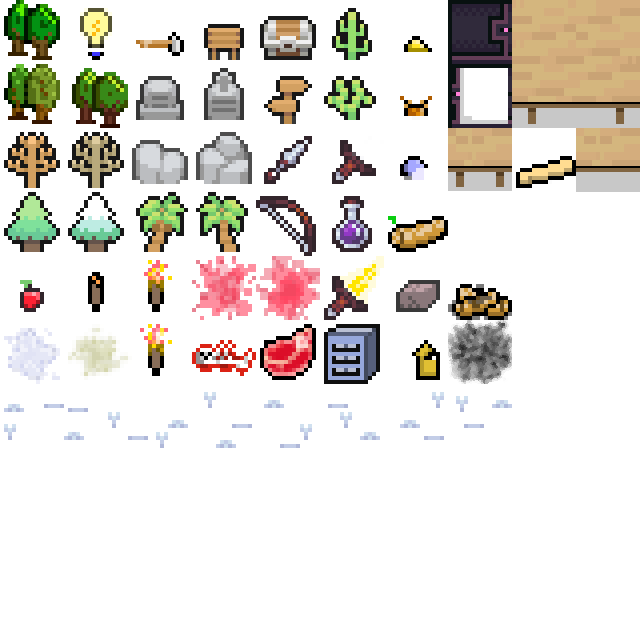
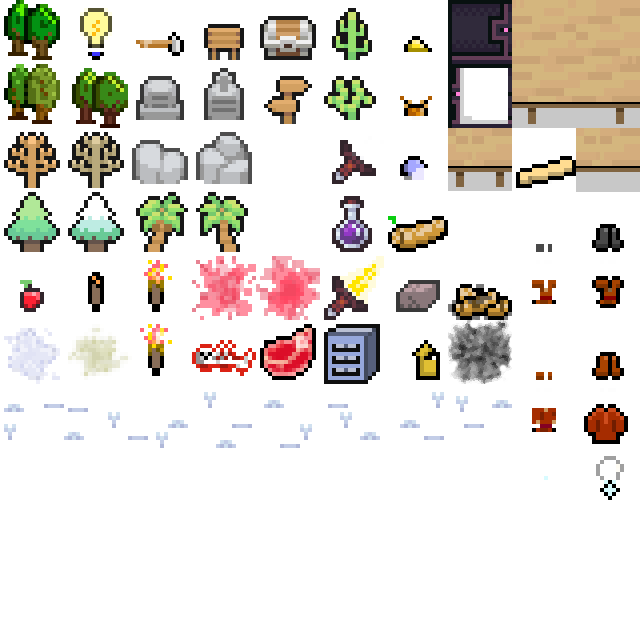
more gear

diff --git a/src/main/kotlin/things/Clothing.kt b/src/main/kotlin/things/Clothing.kt
@@ -22,7 +22,7 @@ sealed class Clothing : Gear() {
 @Serializable
 class HardHat : Clothing() {
     companion object {
-        val glyphTransform = GlyphTransform(Glyph.HARD_HAT, 0.0f, -0.6f, false)
+        val glyphTransform = GlyphTransform(Glyph.HARD_HAT, 0.0f, -0.6f)
     }
     override fun glyphTransform() = glyphTransform
     override fun glyph() = Glyph.HARD_HAT
@@ -37,9 +37,9 @@ class HardHat : Clothing() {
 }
 
 @Serializable
-class HornetHelmet : Clothing() {
+class HornedHelmet : Clothing() {
     companion object {
-        val glyphTransform = GlyphTransform(Glyph.HORNED_HAT, 0.0f, -0.6f, false)
+        val glyphTransform = GlyphTransform(Glyph.HORNED_HAT, 0.0f, -0.6f)
     }
     override fun glyphTransform() = glyphTransform
     override fun glyph() = Glyph.HORNED_HAT
@@ -57,7 +57,7 @@ class HornetHelmet : Clothing() {
 @Serializable
 class RiotHelmet : Clothing() {
     companion object {
-        val glyphTransform = GlyphTransform(Glyph.HELMET, 0.0f, -0.5f, false)
+        val glyphTransform = GlyphTransform(Glyph.HELMET, 0.0f, -0.5f)
     }
     override fun glyphTransform() = glyphTransform
     override fun glyph() = Glyph.HELMET
@@ -66,4 +66,75 @@ class RiotHelmet : Clothing() {
     override val slot = Slot.HEAD
     override fun weight() = 0.7f
     override fun armor() = 4f
+}
+
+@Serializable
+class MokBoots : Clothing() {
+    companion object {
+        val glyphTransform = GlyphTransform(Glyph.GRAY_BOOTS_WORN)
+    }
+    override fun glyphTransform() = glyphTransform
+    override fun glyph() = Glyph.GRAY_BOOTS
+    override fun name() = "mok boots"
+    override fun description() = "Heavy stiff boots of tough leather pressed in layers."
+    override val slot = Slot.FEET
+    override fun weight() = 2f
+    override fun armor() = 2f
+}
+
+@Serializable
+class TravelBoots : Clothing() {
+    companion object {
+        val glyphTransform = GlyphTransform(Glyph.BROWN_BOOTS_WORN)
+    }
+    override fun glyphTransform() = glyphTransform
+    override fun glyph() = Glyph.BROWN_BOOTS
+    override fun name() = "travel boots"
+    override fun description() = "Fur-lined boots, ideal for long journeys."
+    override val slot = Slot.FEET
+    override fun weight() = 1.5f
+    override fun armor() = 1f
+}
+
+@Serializable
+class FurTunic : Clothing() {
+    companion object {
+        val glyphTransform = GlyphTransform(Glyph.RED_TUNIC_WORN)
+    }
+    override fun glyphTransform() = glyphTransform
+    override fun glyph() = Glyph.RED_TUNIC
+    override fun name() = "fur tunic"
+    override fun description() = "Despite the chic lack of arms, the thick fur seems quite cozy."
+    override val slot = Slot.TORSO
+    override fun weight() = 1f
+    override fun armor() = 1f
+}
+
+@Serializable
+class FurJacket : Clothing() {
+    companion object {
+        val glyphTransform = GlyphTransform(Glyph.RED_JACKET_WORN)
+    }
+    override fun glyphTransform() = glyphTransform
+    override fun glyph() = Glyph.RED_JACKET
+    override fun name() = "fur jacket"
+    override fun description() = "The innovation of arms makes this a sort of super-tunic, the ultimate in barbarian comfort."
+    override val slot = Slot.TORSO
+    override fun weight() = 2.5f
+    override fun armor() = 2f
+}
+
+@Serializable
+class SabretoothCharm : Clothing() {
+    companion object {
+        val glyphTransform = GlyphTransform(Glyph.NECK_CHARM_WORN)
+    }
+    override fun glyphTransform() = glyphTransform
+    override fun glyph() = Glyph.NECK_CHARM
+    override fun name() = "sabretooth charm"
+    override fun description() = "A trophy from your first kill reminds you of your inner strength."
+    override val slot = Slot.NECK
+    override fun weight() = 0.1f
+    override fun armor() = 0f
+    override fun statEffects() = mapOf(Stat.Tag.STR to 1f)
 }

diff --git a/src/main/kotlin/things/Gear.kt b/src/main/kotlin/things/Gear.kt
@@ -10,22 +10,23 @@ import util.toEnglishList
 @Serializable
 sealed class Gear : Portable(), StatEffector {
 
-    enum class Slot(val duration: Float, val title: String, val where: String, val verb: String, val unverb: String) {
-        MELEE(0.5f, "melee", "as melee", "wield", "put away"),
-        RANGED(0.5f, "ranged", "as ranged", "ready", "unready"),
-        HEAD(0.6f, "head", "on head", "wear", "remove"),
-        NECK(1.0f, "neck", "around neck", "wear", "remove"),
-        HANDS(1.5f, "hands", "on hands", "wear", "remove"),
-        TORSO(1.5f, "torso", "on torso", "wear", "remove"),
-        LEGS(2.0f, "legs", "on legs", "wear", "remove"),
-        FEET(2.0f, "feet", "on feet", "wear", "remove")
+    enum class Slot(val duration: Float, val title: String, val where: String,
+                    val verb: String, val unverb: String, val drawOrder: Int) {
+        MELEE(0.5f, "melee", "as melee", "wield", "put away", 0),
+        RANGED(0.5f, "ranged", "as ranged", "ready", "unready", 1),
+        HEAD(0.6f, "head", "on head", "wear", "remove", 2),
+        NECK(1.0f, "neck", "around neck", "wear", "remove", 3),
+        HANDS(1.5f, "hands", "on hands", "wear", "remove", 4),
+        TORSO(1.5f, "torso", "on torso", "wear", "remove", 5),
+        LEGS(2.0f, "legs", "on legs", "wear", "remove", 7),
+        FEET(2.0f, "feet", "on feet", "wear", "remove", 6)
     }
 
     class GlyphTransform(
         val glyph: Glyph,
-        val x: Float,
-        val y: Float,
-        val rotate: Boolean
+        val x: Float = 0f,
+        val y: Float = 0f,
+        val rotate: Boolean = false
     )
 
     companion object {
@@ -49,14 +50,14 @@ sealed class Gear : Portable(), StatEffector {
     override fun onMoveTo(from: ThingHolder?, to: ThingHolder?) {
         this.equipped = false
         if (from is Actor && from != to && from.gear[slot] == this) {
-            from.gear[slot] = null
+            from.setGearSlot(slot, null)
         }
     }
 
     override fun onRestore(holder: ThingHolder) {
         super.onRestore(holder)
         if (equipped && holder is Actor) {
-            holder.gear[slot] = this
+            holder.setGearSlot(slot, this)
         }
     }
 

diff --git a/src/main/kotlin/render/Screen.kt b/src/main/kotlin/render/Screen.kt
@@ -252,15 +252,14 @@ object Screen : KtxScreen {
             offsetX = actor.animOffsetX(), offsetY = actor.animOffsetY(), hue = actor.hue(),
             mirror = actor.mirrorGlyph, rotate = actor.rotateGlyph
         )
-        actor.gear.values.forEach { gear ->
-            gear?.glyphTransform()?.also { trans ->
-                gearBatch.addTileQuad(
-                    tx, ty,
-                    gearBatch.getTextureIndex(trans.glyph, App.level, tx, ty), 1f, light,
-                    offsetX = actor.animOffsetX() + trans.x, offsetY = actor.animOffsetY() + trans.y,
-                    hue = gear.hue(), rotate = trans.rotate && actor.rotateGlyph, mirror = actor.mirrorGlyph
-                )
-            }
+        actor.gearDrawList.forEach { gear ->
+            val trans = gear.glyphTransform()
+            gearBatch.addTileQuad(
+                tx, ty,
+                gearBatch.getTextureIndex(trans.glyph, App.level, tx, ty), 1f, light,
+                offsetX = actor.animOffsetX() + trans.x, offsetY = actor.animOffsetY() + trans.y,
+                hue = gear.hue(), rotate = trans.rotate && actor.rotateGlyph, mirror = actor.mirrorGlyph
+            )
         }
         actor.drawStatusGlyphs { statusGlyph ->
             uiWorldBatch.addTileQuad(
@@ -364,9 +363,7 @@ object Screen : KtxScreen {
 
     private fun currentZoomTarget(): Double {
         var t = zoomTarget
-        if (topModal?.zoomWhenOpen == true) {
-            t *= 1.2f
-        }
+        t *= topModal?.zoomWhenOpen ?: 1f
         return t
     }
 

diff --git a/src/main/kotlin/render/tilesets/ThingTileSet.kt b/src/main/kotlin/render/tilesets/ThingTileSet.kt
@@ -51,7 +51,6 @@ fun ThingTileSet() =
             add(0.5f, 2, 3)
             add(0.5f, 3, 3)
         })
-        setTile(Glyph.BOW, SimpleTile(this, 4, 3))
         setTile(Glyph.BOTTLE, SimpleTile(this, 5, 3))
         setTile(Glyph.FRUIT, SimpleTile(this, 0, 4))
         setTile(Glyph.TORCH, SimpleTile(this, 1, 4))
@@ -97,4 +96,14 @@ fun ThingTileSet() =
             add(TableTile.Slot.UPPER, 8, 0)
         })
         setTile(Glyph.BOARD, SimpleTile(this, 8, 2))
+        setTile(Glyph.GRAY_BOOTS, SimpleTile(this, 9, 3))
+        setTile(Glyph.GRAY_BOOTS_WORN, SimpleTile(this, 8, 3))
+        setTile(Glyph.BROWN_BOOTS, SimpleTile(this, 9, 5))
+        setTile(Glyph.BROWN_BOOTS_WORN, SimpleTile(this, 8, 5))
+        setTile(Glyph.RED_TUNIC, SimpleTile(this, 9, 4))
+        setTile(Glyph.RED_TUNIC_WORN, SimpleTile(this, 8, 4))
+        setTile(Glyph.RED_JACKET, SimpleTile(this, 9, 6))
+        setTile(Glyph.RED_JACKET_WORN, SimpleTile(this, 8, 6))
+        setTile(Glyph.NECK_CHARM, SimpleTile(this, 9, 7))
+        setTile(Glyph.NECK_CHARM_WORN, SimpleTile(this, 8, 7))
     }

diff --git a/src/main/kotlin/actors/Actor.kt b/src/main/kotlin/actors/Actor.kt
@@ -55,6 +55,8 @@ sealed class Actor : Entity, ThingHolder, LightSource, Temporal {
     override var level: Level? = null
     @Transient
     val gear = mutableMapOf<Gear.Slot, Gear?>()
+    @Transient
+    val gearDrawList = ArrayList<Gear>()
 
     @Transient
     var animation: Animation? = null
@@ -259,6 +261,15 @@ sealed class Actor : Entity, ThingHolder, LightSource, Temporal {
     fun onUnequip(gear: Gear) {
         gear.statEffects().forEach { (tag, _) ->
             Stat.get(tag).touch(this)
+        }
+    }
+
+    fun setGearSlot(slot: Gear.Slot, newGear: Gear?) {
+        gear[slot]?.also { gearDrawList.remove(it) }
+        gear[slot] = newGear
+        newGear?.also { newGear ->
+            gearDrawList.add(newGear)
+            gearDrawList.sortByDescending { it.slot.drawOrder }
         }
     }
 

diff --git a/src/main/kotlin/ui/modals/Modal.kt b/src/main/kotlin/ui/modals/Modal.kt
@@ -49,7 +49,7 @@ abstract class Modal(
     open fun openSound(): Speaker.SFX? = Speaker.SFX.UIOPEN
     open fun closeSound(): Speaker.SFX? = Speaker.SFX.UICLOSE
 
-    var zoomWhenOpen = false
+    var zoomWhenOpen: Float = 1f
     var sidecar: Modal? = null
     var isSidecar = false
     var isInSidecar = false
@@ -239,7 +239,7 @@ abstract class Modal(
             }
 
             if (!forExamine) addOption("examine " + thing.name()) {
-                Screen.addModal(ExamineModal(thing, Position.CENTER_LOW).apply { zoomWhenOpen = true })
+                Screen.addModal(ExamineModal(thing, Position.CENTER_LOW).apply { zoomWhenOpen = asWithParent?.zoomWhenOpen ?: 1f })
             }
 
             if (asWithContainer == null && asWithParent == null) {

diff --git a/src/main/kotlin/ui/modals/InventoryModal.kt b/src/main/kotlin/ui/modals/InventoryModal.kt
@@ -38,7 +38,7 @@ class InventoryModal(
     fun getBench() = if (isBench) ((parentModal as InventoryModal).withContainer as Workbench) else null
 
     init {
-        zoomWhenOpen = true
+        zoomWhenOpen = 1.2f
         parentModal?.also { this.isSidecar = true ; changeSelection(0) }
         updateGrouped()
         adjustHeight()
@@ -145,7 +145,7 @@ class InventoryModal(
                 width + (parentModal?.width ?: 0) - 2,
                 optionY(ourSelection) - 4
             ).apply {
-                zoomWhenOpen = true
+                zoomWhenOpen = this@InventoryModal.zoomWhenOpen
                 this.parentModal = parent
                 addInventoryOptions(
                     this, grouped[ourSelection][0], grouped[ourSelection],

diff --git a/src/main/kotlin/actors/Player.kt b/src/main/kotlin/actors/Player.kt
@@ -63,15 +63,20 @@ open class Player : Actor() {
         Survive.set(this, 2f)
 
         Sunsword().moveTo(this)
-        repeat (20) { Meat().moveTo(this) }
+        repeat (10) { Meat().moveTo(this) }
         Torch().moveTo(this)
         Apple().moveTo(this)
-        HornetHelmet().moveTo(this)
+        HornedHelmet().moveTo(this)
         HardHat().moveTo(this)
         RiotHelmet().moveTo(this)
         Pickaxe().moveTo(this)
         Axe().moveTo(this)
         Lighter().moveTo(this)
+        MokBoots().moveTo(this)
+        TravelBoots().moveTo(this)
+        FurTunic().moveTo(this)
+        FurJacket().moveTo(this)
+        SabretoothCharm().moveTo(this)
     }
 
     override fun die() {

diff --git a/src/main/kotlin/ui/modals/GearModal.kt b/src/main/kotlin/ui/modals/GearModal.kt
@@ -25,7 +25,7 @@ class GearModal(
     var childDeployed = false
 
     init {
-        zoomWhenOpen = true
+        zoomWhenOpen = 1.6f
         selectionBoxHeight = 18
         spacing = 32
         headerPad = 80
@@ -72,7 +72,7 @@ class GearModal(
                 }
             }
         .apply {
-            zoomWhenOpen = true
+            zoomWhenOpen = this@GearModal.zoomWhenOpen
             parentModal = this@GearModal
             val things = slots[ourSelection].things
             if (things.isNotEmpty()) {

diff --git a/src/main/kotlin/actors/actions/Unequip.kt b/src/main/kotlin/actors/actions/Unequip.kt
@@ -13,7 +13,7 @@ class Unequip(
     override fun execute(actor: Actor, level: Level) {
         if (gear.holder == actor) {
             gear.equipped = false
-            actor.gear[gear.slot] = null
+            actor.setGearSlot(gear.slot, null)
             actor.onUnequip(gear)
             gear.onUnequip(actor)
             Console.sayAct(gear.unequipSelfMsg(), gear.unequipOtherMsg(), actor, gear)

diff --git a/src/main/kotlin/actors/actions/Equip.kt b/src/main/kotlin/actors/actions/Equip.kt
@@ -23,7 +23,7 @@ class Equip(
 
     override fun execute(actor: Actor, level: Level) {
         gear.equipped = true
-        actor.gear[gear.slot] = gear
+        actor.setGearSlot(gear.slot, gear)
         actor.onEquip(gear)
         gear.onEquip(actor)
         Console.sayAct(gear.equipSelfMsg(), gear.equipOtherMsg(), actor, gear)

diff --git a/src/main/kotlin/render/tilesets/Glyph.kt b/src/main/kotlin/render/tilesets/Glyph.kt
@@ -91,6 +91,16 @@ enum class Glyph {
     DOOR_OPEN,
     TABLE,
     BOARD,
+    BROWN_BOOTS,
+    BROWN_BOOTS_WORN,
+    GRAY_BOOTS,
+    GRAY_BOOTS_WORN,
+    RED_TUNIC,
+    RED_TUNIC_WORN,
+    RED_JACKET,
+    RED_JACKET_WORN,
+    NECK_CHARM,
+    NECK_CHARM_WORN,
 
     BLOODSTAIN,
     SCORCHMARK
